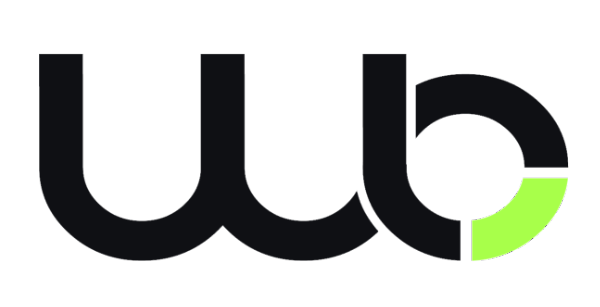
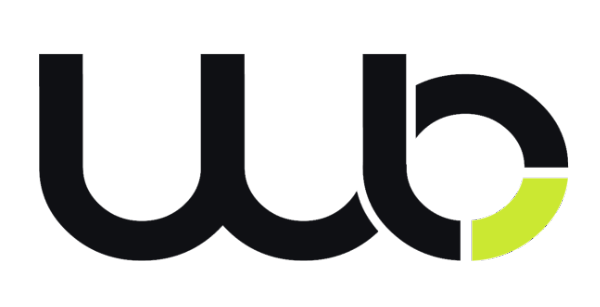
v4.1: correct the brand green to hue 70, admit red as a product colour
Sampling the real photographs while building the THREE page showed v4.0 had
taken the accent from the wrong product. The logo olive is hue 66 and the ONE,
TWO and THREE all photograph at hue 72-73; only the EON sits at 89, and that
is where #A8FF4A came from.

- brand lime is now #CBE832, hue 70 - four degrees from the mark, four from
  the hardware, 13.7:1 against ink in both directions
- monogram recut in it, positive and negative
- product colours added as their own tokens (--hw-lime #8CAC1C, --hw-red
  #E03828, charcoal, white): swatches and hardware only, never the interface
- red is admitted to the system as a product colour; the interface still has
  none, so a button is lime and an error is a lime rule and a sentence
- colourway swatches in Buy.jsx now use the measured hardware hexes
- the product is the Wishbone THREE; CubeFold is the folding mechanism only
- brand kit, colour and marks guidelines, brand book and both page generators
  rebuilt on the new accent

Changed region(s): [[0.78, 0.557, 0.96, 0.8502]]

diff --git a/design-system/guidelines/colour.html b/design-system/guidelines/colour.html
@@ -7,11 +7,18 @@
  <div style="background:#0f1014;color:#fafafa;border-color:#0f1014"><span class="label">ink</span><span class="v">#0F1014</span></div>
  <div style="background:#6b7075;color:#fff;border-color:#6b7075"><span class="label">grey</span><span class="v">#6B7075</span></div>
  <div style="background:#e4e4e7"><span class="label">hairline</span><span class="v">#E4E4E7</span></div>
- <div style="background:#a8ff4a;border-color:#a8ff4a"><span class="label">lime</span><span class="v">#A8FF4A</span></div>
+ <div style="background:#cbe832;border-color:#cbe832"><span class="label">lime</span><span class="v">#CBE832</span></div>
 </div>
 <table><tr><th>pair</th><th>ratio</th><th>use</th></tr>
 <tr><td>ink on paper</td><td>18.6</td><td>all text</td></tr><tr><td>grey on paper</td><td>5.0</td><td>secondary text, labels</td></tr>
-<tr><td>ink on lime</td><td>15.5</td><td>text on the lime button and tag</td></tr><tr><td>lime on ink</td><td>15.5</td><td>the eyebrow and button on the dark band</td></tr>
-<tr><td><b>lime on paper</b></td><td><b>1.2</b></td><td><b>never as text</b> — on paper lime is a surface: the button, the tag, a 2px rule</td></tr></table>
-<p class="grey" style="font-size:14px;max-width:70ch">The store photographs every product on white, so the site is white. One dark band per page at most, for the thing with the most technology in it. Lime is the hardware's own green (hue 89°); it appears once per view as the purchase, and as small marks — the eyebrow rule, the active slide, the selected tag. There is no red: an error is a lime line and a sentence.</p></div>
+<tr><td>ink on lime</td><td>13.7</td><td>text on the lime button and tag</td></tr><tr><td>lime on ink</td><td>13.7</td><td>the eyebrow and button on the dark band</td></tr>
+<tr><td><b>lime on paper</b></td><td><b>1.4</b></td><td><b>never as text</b> — on paper lime is a surface: the button, the tag, a 2px rule</td></tr></table>
+<h3 style="font-size:12px;font-weight:500;letter-spacing:.16em;text-transform:uppercase;color:var(--grey);margin:28px 0 10px">Product colours — swatches and hardware only</h3>
+<div class="sw" style="grid-template-columns:repeat(4,1fr)">
+ <div style="background:#8cac1c;border-color:#8cac1c"><span class="label">hardware lime</span><span class="v">#8CAC1C</span></div>
+ <div style="background:#e03828;border-color:#e03828;color:#fff"><span class="label">red</span><span class="v">#E03828</span></div>
+ <div style="background:#2b2b2e;border-color:#2b2b2e;color:#fff"><span class="label">charcoal</span><span class="v">#2B2B2E</span></div>
+ <div style="background:#e9e9e9"><span class="label">white</span><span class="v">#E9E9E9</span></div></div>
+<p class="grey" style="font-size:14px;max-width:70ch;margin-top:10px">Sampled from the real photographs. These are what a colourway swatch is painted with and what the hardware is. <b>None of them is ever an interface colour</b> — no red button, no red error, no olive text.</p>
+<p class="grey" style="font-size:14px;max-width:70ch">The store photographs every product on white, so the site is white. One dark band per page at most, for the thing with the most technology in it. Lime is hue 70° — four degrees from the logo olive and four from the lime on the trolleys, so the mark and the interface are finally the same green. It appears once per view as the purchase, and as small marks: the eyebrow rule, the active slide, the selected tag. The interface has no red; an error is a lime line and a sentence.</p></div>
 </body></html>

diff --git a/design-system/tokens/colors.css b/design-system/tokens/colors.css
@@ -8,8 +8,15 @@
   --grey-ink:#9a9ea6;         /* secondary text on ink (6.5:1) */
   --hair:#e4e4e7;             /* the hairline on paper */
   --hair-ink:rgb(255 255 255 / .14);  /* the hairline on ink */
-  --lime:#a8ff4a;             /* the accent — the hardware's green, hue 89° */
+  --lime:#cbe832;             /* THE accent — hue 70°, between the logo olive and the hardware lime */
   --on-lime:#0f1014;          /* the only text colour that goes on lime */
   --dot:#0f1014;              /* silhouette dots on paper */
   --dot-ink:#fafafa;          /* silhouette dots on the dark band */
+
+  /* product colours — sampled from the photographs. Swatches and hardware only.
+     These never appear in the interface: a button is --lime, an error is --lime. */
+  --hw-lime:#8cac1c;          /* the trolleys' lime, hue 73° */
+  --hw-red:#e03828;           /* the White / Red colourway and the CUBE mark, hue 4° */
+  --hw-charcoal:#2b2b2e;
+  --hw-white:#e9e9e9;
 }

diff --git a/design-system/components/sections/Buy.jsx b/design-system/components/sections/Buy.jsx
@@ -7,7 +7,7 @@ import { Photo } from '../primitives/Silhouette.jsx';
 
 // The product page opener: gallery on mist left, the buy column right. Colourways are the
 // store's real option values, drawn as split squares; the lime button is the purchase.
-const SW = { 'charcoal-black': ['#2b2b2e', '#0f1014'], 'charcoal-lime': ['#2b2b2e', '#a8ff4a'], 'charcoal-red': ['#2b2b2e', '#b3342a'], 'charcoal-blue': ['#2b2b2e', '#2f5aa8'], 'white-red': ['#e9e9e9', '#b3342a'] };
+const SW = { 'charcoal-black': ['#2b2b2e', '#0f1014'], 'charcoal-lime': ['#2b2b2e', '#8cac1c'], 'charcoal-red': ['#2b2b2e', '#b3342a'], 'charcoal-blue': ['#2b2b2e', '#2f5aa8'], 'white-red': ['#e9e9e9', '#b3342a'] };
 export function Buy({ model = 'EON', type = 'electric', price, colourways = [], images = [], copy, delivery = '2–4 days · AT DE UK', parts, soldOut = false, facts = [] }) {
   const [cw, setCw] = useState(colourways[0]);
   const [img, setImg] = useState(0);

diff --git a/design-system/components/primitives/Dots.jsx b/design-system/components/primitives/Dots.jsx
@@ -9,7 +9,7 @@ export function Dots({ grid, cols, rows, hot = [], size, gap, tone = 'ink', styl
     const css = getComputedStyle(document.documentElement);
     const S = size || parseFloat(css.getPropertyValue('--dot-size')) || 5;
     const G = gap != null ? gap : (parseFloat(css.getPropertyValue('--dot-gap')) || 2);
-    const lime = css.getPropertyValue('--lime').trim() || '#a8ff4a';
+    const lime = css.getPropertyValue('--lime').trim() || '#cbe832';
     const rgb = tone === 'paper' ? '250,250,250' : '15,16,20';
     const step = S + G, w = cols * step - G, h = rows * step - G, dpr = window.devicePixelRatio || 1;
     c.width = w * dpr; c.height = h * dpr; c.style.width = w + 'px'; c.style.height = h + 'px';

diff --git a/design-system/guidelines/marks.html b/design-system/guidelines/marks.html
@@ -10,6 +10,6 @@
 <tr><td>on paper</td><td>ink wordmark (header, 14px tall) · ink monogram with the lime quarter-circle (footer, 96px)</td></tr>
 <tr><td>on ink</td><td>the negative wordmark · the lime monogram</td></tr>
 <tr><td>clear space</td><td>the height of the W on every side</td></tr>
-<tr><td>the green in the mark</td><td>lime #A8FF4A — the same green as the hardware and the button; the olive of the original file is retired</td></tr>
+<tr><td>the green in the mark</td><td>lime #CBE832 — the same green as the hardware and the button; the olive of the original file is retired</td></tr>
 <tr><td>open</td><td>SVG masters and ™/® status still to commission</td></tr></table></div>
 </body></html>

diff --git a/design-system/uploads/tokens.css b/design-system/uploads/tokens.css
@@ -8,7 +8,7 @@
   --grey-ink:#9a9ea6;         /* secondary text on ink (6.5:1) */
   --hair:#e4e4e7;             /* the hairline on paper */
   --hair-ink:rgb(255 255 255 / .14);  /* the hairline on ink */
-  --lime:#a8ff4a;             /* the accent — the hardware's green, hue 89° */
+  --lime:#cbe832;             /* the accent — the hardware's green, hue 89° */
   --on-lime:#0f1014;          /* the only text colour that goes on lime */
   --dot:#0f1014;              /* silhouette dots on paper */
   --dot-ink:#fafafa;          /* silhouette dots on the dark band */

diff --git a/docs/brand/tokens.css b/docs/brand/tokens.css
@@ -9,7 +9,7 @@
   --grey-ink:#9a9ea6;         /* secondary text on ink (6.5:1) */
   --hair:#e4e4e7;             /* the hairline on paper */
   --hair-ink:rgb(255 255 255 / .14);  /* the hairline on ink */
-  --lime:#a8ff4a;             /* the accent — the hardware's green, hue 89° */
+  --lime:#cbe832;             /* the accent — the hardware's green, hue 89° */
   --on-lime:#0f1014;          /* the only text colour that goes on lime */
   --dot:#0f1014;              /* silhouette dots on paper */
   --dot-ink:#fafafa;          /* silhouette dots on the dark band */

diff --git a/design-system/tools/build-three-page.py b/design-system/tools/build-three-page.py
@@ -1,5 +1,5 @@
 #!/usr/bin/env python3
-"""Wishbone CUBE three — one complete product landing page, built on the v4 "Studio" system
+"""Wishbone THREE — one complete product landing page, built on the v4 "Studio" system
 and the real Product Bay record (id 9054916). Regenerate after any token or data change."""
 import base64, json, pathlib, re
 
@@ -45,7 +45,7 @@ HOTSPOTS = [
 ]
 
 SPECS = [
- ('Model','Wishbone CUBE three'),('Type','Manual push trolley, three wheels'),
+ ('Model','Wishbone THREE'),('Type','Manual push trolley, three wheels'),
  ('Frame','Aluminium, dual-tube'),('Folding mechanism','CubeFold'),
  ('Folded dimensions','37.5 × 57 × 46 cm'),('Net weight','7.65 kg'),
  ('Locks when folded and unfolded','Yes'),('Front wheel','24 cm, folds with the frame'),
@@ -61,8 +61,8 @@ SPECS = [
 COMPARE = {
  'models':[
   {'id':'ONE','name':'ONE','price':'229,00 €','img':IMG['one']},
-  {'id':'TWO','name':'CUBE two','price':'199,00 €','img':IMG['two']},
-  {'id':'THREE','name':'CUBE three','price':'249,00 €','img':IMG['bl']},
+  {'id':'TWO','name':'TWO','price':'199,00 €','img':IMG['two']},
+  {'id':'THREE','name':'THREE','price':'249,00 €','img':IMG['bl']},
  ],
  'rows':[
   ('Frame',{'ONE':'Aluminium','TWO':'Aluminium, single tube','THREE':'Aluminium, dual tube'}),
@@ -90,16 +90,16 @@ FAQ = [
  ('How small does it actually fold?','Into a cube of 37.5 × 57 × 46 cm, and it locks there — it will not spring open when you lift it. Pull the two rear wheels off and it loses another hand’s width each side.'),
  ('Will it take my bag?','Both brackets adjust and strap, so a stand bag and a cart bag both sit properly. The lower cradle carries the weight; the upper bracket only steadies it.'),
  ('Does the front wheel swivel?','No. It is fixed and tracks straight, which is what keeps the trolley going where you point it across a slope. It folds in with the frame rather than coming off.'),
- ('What is the difference between the two and the three?','The three has the dual-tube frame, a scorecard and pencil holder, and locks in both the folded and unfolded position. It is 750 g heavier and 50 € more.'),
+ ('What is the difference between the TWO and the THREE?','The THREE has the dual-tube frame, a scorecard and pencil holder, and locks in both the folded and unfolded position. It is 750 g heavier and 50 € more.'),
  ('Can I get spare parts?','Yes. Wishbone lists parts by model, and the wheels, brackets and holders are all replaceable rather than moulded in.'),
 ]
 
 NOTES = [
  ('Higgsfield was not reachable in this session','The MCP connector is not attached to this run, so no image was generated. Everything visual on this page is either a real Wishbone photograph or a diagram drawn from the measured numbers. The shot list below is ready to fire the moment the connector is live.'),
- ('The product has a sub-brand the website does not use','The manual and the frame both say <b>CUBE three</b>. Shopify calls it <em>Wishbone THREE</em>. This page uses CUBE three; if that is wrong, it is a one-line change.'),
+ ('Decided: the product is the Wishbone THREE','The manual and the frame carry a <b>CUBE</b> sub-brand that the website has never used. The owner\u2019s ruling on 20 September: the product is the <b>Wishbone THREE</b>, and <b>CubeFold</b> stays as the name of the folding mechanism only. This page follows that.'),
  ('The specs that were "not yet measured" exist','Weight 7.65 kg and 37.5 × 57 × 46 cm are in Product Bay and have never reached the storefront. The brand book still says these are unknown — that entry can now be closed.'),
- ('The lime is not the brand lime','Sampled from the photograph, the three’s lime is hue 72° (about #8CAC1C) — the same yellow-green family as the logo. The v4 brand accent is #A8FF4A, hue 89°, sampled from the EON. Two different greens are in play across the range and one of them should move.'),
- ('There is red in the brand','The White / Red colourway and the CUBE logo both use #E03828. The v4 system says there is no red. That needs a ruling.'),
+ ('The lime is not the brand lime','Sampled from the photograph, the THREE’s lime is hue 72° (about #8CAC1C) — the same yellow-green family as the logo. The v4 brand accent is #CBE832, hue 89°, sampled from the EON. Two different greens are in play across the range and one of them should move.'),
+ ('Decided: red is a product colour only','#E03828 is real \u2014 it is on the CUBE mark and on a whole colourway. It now lives in the system as a <b>product colour</b>: swatches and hardware only. The interface keeps no red at all; a button is lime and an error is a lime rule and a sentence.'),
  ('Six course photographs are sitting unused','014A2245 through 014A2310 are in Product Bay and on no page of the website. They are the best assets the brand owns.'),
  ('A product tour video exists','<em>Wishbone Three Product Tour.mp4</em>, 211 MB, in Product Bay. It belongs on this page; it needs hosting and a poster frame.'),
  ('Packing size and gross weight are zero','Both are filled in as 0 in Product Bay, which is not a measurement. The spec table prints an em dash instead.'),
@@ -139,7 +139,7 @@ header.site nav a:hover::after{right:0}
   letter-spacing:var(--track-label);text-transform:uppercase;line-height:1;
   transition:background var(--t-fast) var(--ease),color var(--t-fast) var(--ease),border-color var(--t-fast) var(--ease)}
 .btn--lime{background:var(--lime);color:var(--on-lime);border-color:var(--lime)}
-.btn--lime:hover{background:#97ef33}
+.btn--lime:hover{background:#bedd1e}
 .btn--ink{background:var(--ink);color:#fafafa;border-color:var(--ink)}
 .btn--out{background:transparent;color:inherit;border-color:currentColor}
 .btn--out:hover{background:var(--ink);color:#fafafa;border-color:var(--ink)}
@@ -218,7 +218,7 @@ table.cmp{width:100%;border-collapse:collapse;font-size:14px}
 table.cmp th,table.cmp td{text-align:left;padding:14px 14px 14px 0;border-bottom:1px solid var(--hair);vertical-align:middle}
 table.cmp thead th{border-bottom:1px solid var(--ink);vertical-align:bottom;font-weight:400}
 table.cmp thead img{width:100%;max-width:150px;background:var(--mist);margin-bottom:12px}
-table.cmp .hi{background:rgb(168 255 74 / .10)}
+table.cmp .hi{background:rgb(203 232 50 / .10)}
 table.cmp td.na{color:var(--grey)}
 
 /* accessories */
@@ -286,15 +286,15 @@ def fold_svg():
     bx, by = ox+w+dx+64, oy
     return f"""<svg viewBox="0 0 760 300" role="img" aria-label="The folded trolley, 37.5 by 57 by 46 centimetres, drawn to scale beside a 55 by 40 centimetre cabin bag">
   <g fill="none" stroke="#fafafa" stroke-width="1.6" stroke-linejoin="round">
-    <polygon points="{front}" fill="rgb(168 255 74 / .10)"/>
+    <polygon points="{front}" fill="rgb(203 232 50 / .10)"/>
     <polygon points="{top}"/><polygon points="{side}"/>
   </g>
-  <g stroke="#a8ff4a" stroke-width="1.4">
+  <g stroke="#cbe832" stroke-width="1.4">
     <line x1="{ox}" y1="{oy+18}" x2="{ox+w}" y2="{oy+18}"/>
     <line x1="{ox-18}" y1="{oy}" x2="{ox-18}" y2="{oy-h}"/>
     <line x1="{ox+w+6}" y1="{oy+12}" x2="{ox+w+dx+6}" y2="{oy+dy+12}"/>
   </g>
-  <g fill="#a8ff4a" font-family="'Manrope',sans-serif" font-size="12" font-weight="500" letter-spacing="1.4">
+  <g fill="#cbe832" font-family="'Manrope',sans-serif" font-size="12" font-weight="500" letter-spacing="1.4">
     <text x="{ox+w/2:.0f}" y="{oy+36:.0f}" text-anchor="middle">57 CM</text>
     <text x="{ox-26:.0f}" y="{oy-h/2:.0f}" text-anchor="end" dominant-baseline="middle">46 CM</text>
     <text x="{ox+w+dx/2+22:.0f}" y="{oy+dy+30:.0f}">37.5 CM</text>
@@ -317,7 +317,7 @@ def build():
         f'<button data-cw="{c["id"]}" aria-label="{c["name"]}" aria-pressed="{"true" if i==0 else "false"}" '
         f'style="background:linear-gradient(135deg,{c["a"]} 0 50%,{c["b"]} 50% 100%)"></button>' for i, c in enumerate(COLOURWAYS))
     cw_slots = "".join(f'<div class="slot{" on" if i==0 else ""}" data-cw="{c["id"]}">'
-                       f'<img src="{c["img"]}" alt="Wishbone CUBE three in {c["name"]}" '
+                       f'<img src="{c["img"]}" alt="Wishbone THREE in {c["name"]}" '
                        f'{"" if i==0 else "loading=lazy"}></div>' for i, c in enumerate(COLOURWAYS))
     idx = "".join(f'<li data-cw="{c["id"]}" class="{"on" if i==0 else ""}">{str(i+1).zfill(2)}</li>'
                   for i, c in enumerate(COLOURWAYS))
@@ -334,7 +334,7 @@ def build():
                                     ('4','','Quick Lok bases'),('3','','colourways'),('249','€','RRP')])
 
     cws = "".join(f'''<figure>
-      <img src="{c['img']}" alt="Wishbone CUBE three in {c['name']}" loading="lazy">
+      <img src="{c['img']}" alt="Wishbone THREE in {c['name']}" loading="lazy">
       <figcaption style="margin-top:18px">
         <div class="label"><span class="chip" style="background:linear-gradient(135deg,{c['a']} 0 50%,{c['b']} 50% 100%)"></span>{c['name']}</div>
         <div class="grey" style="font-size:13px;margin-top:10px;font-variant-numeric:tabular-nums">SKU {c['sku']}<br>EAN {c['ean']}</div>
@@ -367,8 +367,8 @@ def build():
 # ---------------------------------------------------------------- the page
 HTML = """<!doctype html><html lang="en"><head><meta charset="utf-8">
 <meta name="viewport" content="width=device-width,initial-scale=1">
-<title>Wishbone CUBE three — push trolley</title>
-<meta name="description" content="The Wishbone CUBE three folds to 37.5 × 57 × 46 cm and locks there. Dual-tube aluminium frame, 7.65 kg, four Quick Lok bases, Smart Organizer. 249 €.">
+<title>Wishbone THREE — push trolley</title>
+<meta name="description" content="The Wishbone THREE folds to 37.5 × 57 × 46 cm and locks there. Dual-tube aluminium frame, 7.65 kg, four Quick Lok bases, Smart Organizer. 249 €.">
 <link rel="preconnect" href="https://fonts.googleapis.com"><link rel="preconnect" href="https://fonts.gstatic.com" crossorigin>
 <link href="https://fonts.googleapis.com/css2?family=Manrope:wght@300;400;500;600&family=DotGothic16&display=swap" rel="stylesheet">
 <style>__TOKENS__ __CSS__</style></head><body>
@@ -377,7 +377,7 @@ HTML = """<!doctype html><html lang="en"><head><meta charset="utf-8">
   <a href="/" aria-label="Wishbone Golf"><img src="__WORD__" alt="Wishbone Golf" style="height:13px;width:auto"></a>
   <nav class="label"><a href="#features">Trolleys</a><a href="#parts">Spare parts</a><a href="#accessories">Accessories</a><a href="#compare">Compare</a><a href="#faq">Support</a></nav>
   <a href="/cart" class="label">Cart (0)</a>
-  <a class="btn btn--lime btn--sm" href="#buy">Buy the three <span aria-hidden="true">→</span></a>
+  <a class="btn btn--lime btn--sm" href="#buy">Buy the THREE <span aria-hidden="true">→</span></a>
 </div></header>
 
 <!-- 01 hero -->
@@ -385,7 +385,7 @@ HTML = """<!doctype html><html lang="en"><head><meta charset="utf-8">
   <div class="copy">
     __EYE_HERO__
     <h1 class="display display--hero"><span style="display:block">Three wheels.</span><span style="display:block">One cube.</span><span style="display:block">7.65 kg.</span></h1>
-    <p class="lead grey" style="max-width:38ch">The CUBE three folds into 37.5 × 57 × 46 cm and locks there. A dual-tube aluminium frame, four Quick Lok bases and a Smart Organizer where your hands already are.</p>
+    <p class="lead grey" style="max-width:38ch">The THREE folds into 37.5 × 57 × 46 cm and locks there. A dual-tube aluminium frame, four Quick Lok bases and a Smart Organizer where your hands already are.</p>
     <div style="display:flex;align-items:baseline;gap:16px"><span class="price">249,00 €</span><span class="label grey">incl. VAT · 2–4 days</span></div>
     <div><div class="label grey" style="margin-bottom:10px">Colourway <span id="cwname" style="color:var(--ink)">Black / Lime</span></div>
       <div class="sw" id="sw">__CW_BUTTONS__</div></div>
@@ -406,7 +406,7 @@ HTML = """<!doctype html><html lang="en"><head><meta charset="utf-8">
   __D_FEAT__
   <p class="grey" style="max-width:46ch;margin-top:16px">Eight things worth knowing, in the order you meet them. Pick a number.</p>
   <div class="map">
-    <div class="plate"><img src="__HERO_BL__" alt="Wishbone CUBE three, feature map">__SPOTS__</div>
+    <div class="plate"><img src="__HERO_BL__" alt="Wishbone THREE, feature map">__SPOTS__</div>
     <div>
       <div class="det" id="det">
         <img id="detimg" src="" alt="">
@@ -471,11 +471,11 @@ HTML = """<!doctype html><html lang="en"><head><meta charset="utf-8">
   __EYE_COURSE__
   <h2 class="display" style="margin:18px 0 32px"><span style="display:block">On the course,</span><span style="display:block">where it is judged.</span></h2>
   <div class="gal">
-    <figure class="w8 h1"><img src="__L2__" alt="The CUBE three on the fairway"></figure>
-    <figure class="w4 h1"><img src="__L1__" alt="The CUBE three, three-quarter view on grass"></figure>
-    <figure class="w6 h2"><img src="__L3__" alt="The CUBE three loaded with a cart bag"></figure>
+    <figure class="w8 h1"><img src="__L2__" alt="The Wishbone THREE on the fairway"></figure>
+    <figure class="w4 h1"><img src="__L1__" alt="The Wishbone THREE, three-quarter view on grass"></figure>
+    <figure class="w6 h2"><img src="__L3__" alt="The Wishbone THREE loaded with a cart bag"></figure>
     <figure class="w6 h2"><img src="__L6__" alt="A golfer taking a club from the bag"></figure>
-    <figure class="w12 h3"><img src="__L4__" alt="A golfer pushing the CUBE three along the fairway"></figure>
+    <figure class="w12 h3"><img src="__L4__" alt="A golfer pushing the Wishbone THREE along the fairway"></figure>
   </div>
 </div></section>
 
@@ -523,9 +523,9 @@ HTML = """<!doctype html><html lang="en"><head><meta charset="utf-8">
     <div style="grid-column:span 4"><img src="__MONO__" alt="Wishbone" style="width:92px">
       <p class="grey" style="font-size:13px;margin-top:16px;max-width:28ch">Birthed in Britain. Ultra-light aluminium golf trolleys and every part to keep them rolling.</p></div>
     <div style="grid-column:span 2"><div class="label" style="margin-bottom:14px">Trolleys</div>
-      <ul class="grey" style="list-style:none;padding:0;display:grid;gap:8px;font-size:13px"><li>Wishbone ONE</li><li>CUBE two</li><li>CUBE three</li><li>NEO</li><li>EON</li></ul></div>
+      <ul class="grey" style="list-style:none;padding:0;display:grid;gap:8px;font-size:13px"><li>Wishbone ONE</li><li>Wishbone TWO</li><li>Wishbone THREE</li><li>NEO</li><li>EON</li></ul></div>
     <div style="grid-column:span 2"><div class="label" style="margin-bottom:14px">Spare parts</div>
-      <ul class="grey" style="list-style:none;padding:0;display:grid;gap:8px;font-size:13px"><li>Parts for the three</li><li>Wheels</li><li>Brackets</li><li>Brake kit</li></ul></div>
+      <ul class="grey" style="list-style:none;padding:0;display:grid;gap:8px;font-size:13px"><li>Parts for the THREE</li><li>Wheels</li><li>Brackets</li><li>Brake kit</li></ul></div>
     <div style="grid-column:span 2"><div class="label" style="margin-bottom:14px">Accessories</div>
       <ul class="grey" style="list-style:none;padding:0;display:grid;gap:8px;font-size:13px"><li>Umbrella holder</li><li>Drink holder</li><li>Scorecard holder</li><li>Carry bag set</li></ul></div>
     <div style="grid-column:span 2"><div class="label" style="margin-bottom:14px">Company</div>
@@ -538,7 +538,7 @@ HTML = """<!doctype html><html lang="en"><head><meta charset="utf-8">
 
 <div class="buybar"><div class="wrap in">
   <img src="__HERO_BL__" alt="" style="width:44px;height:44px;object-fit:contain">
-  <div><div class="label">Wishbone CUBE three</div><div class="grey" style="font-size:13px" id="barcw">Black / Lime · 7.65 kg</div></div>
+  <div><div class="label">Wishbone THREE</div><div class="grey" style="font-size:13px" id="barcw">Black / Lime · 7.65 kg</div></div>
   <div style="margin-left:auto;display:flex;align-items:center;gap:18px">
     <span class="price" style="font-size:20px">249,00 €</span>
     <a class="btn btn--lime" href="#">Add to cart <span aria-hidden="true">→</span></a></div>
@@ -590,7 +590,7 @@ def main():
     out = (HTML
       .replace('__TOKENS__', tokens).replace('__CSS__', CSS)
       .replace('__WORD__', WORD).replace('__MONO__', MONO)
-      .replace('__EYE_HERO__', eyebrow('01','Wishbone CUBE three'))
+      .replace('__EYE_HERO__', eyebrow('01','Wishbone THREE'))
       .replace('__EYE_FEAT__', eyebrow('02','Every feature'))
       .replace('__D_FEAT__', display(['Eight reasons it is','fifty euros more.']))
       .replace('__EYE_FOLD__', eyebrow('03','CubeFold'))

diff --git a/design-system/tools/build-brandbook.py b/design-system/tools/build-brandbook.py
@@ -30,7 +30,7 @@ B.append(ch('02','direction','The direction',
  'v4 is white because the product is photographed on white. Everything else follows from that.',
  two(box('the reference', '<p style="margin-top:10px">A white, airy page: light geometric sans in upper-case statements, a stats strip under the hero, three-up product tiles on grey, one dark technology band, hairline forms, and a lime button used exactly once. The dot-matrix voice is kept, but only as an accent.</p>'),
      box('the product', '<p style="margin-top:10px">Every one of the store\'s photographs is a white studio shot. On a dark site each one arrives in a white box; on paper and mist they sit where they are put. Fifteen parts have no photograph at all — the dot silhouette stands in for them and for nothing else.</p>'))
- + '<h3>2.1 what v4 keeps from before</h3>' + table([['the green','lime #A8FF4A, the hardware\'s hue-89° green, settled in v3 and kept'],['the honesty','unknown prints — with <i>not yet measured</i>; nothing is guessed'],['the catalogue','every component is built on the real products, prices and part names'],['the dot voice','one role: the numbered eyebrow above each headline; silhouettes where a photo is missing']], ['kept','how'])
+ + '<h3>2.1 what v4 keeps from before</h3>' + table([['the green','the idea that the accent is the product\'s own green — but v4.1 corrects <i>which</i> product: the logo is hue 66° and the ONE, TWO and THREE photograph at 72–73°, so the accent is now <b>#CBE832 at hue 70°</b>, not the EON\'s 89°'],['the honesty','unknown prints — with <i>not yet measured</i>; nothing is guessed'],['the catalogue','every component is built on the real products, prices and part names'],['the dot voice','one role: the numbered eyebrow above each headline; silhouettes where a photo is missing']], ['kept','how'])
  + '<h3>2.2 what it drops</h3>' + table([['the dark ground and the lamp','the site is paper and mist; ink appears once per page'],['dot type for everything','Manrope for everything; DotGothic16 for the eyebrow only'],['dot charts, gauges, rings, waves','none — a number is written as a number'],['the tile and the pill','bands and hairlines; radius 0']], ['dropped','replaced by'])))
 B.append(ch('03','marks','Marks',
  'The wordmark and the monogram, positive on paper, negative on ink. The green in the mark is the brand green.',

diff --git a/design-system/tools/build-v4.py b/design-system/tools/build-v4.py
@@ -85,7 +85,7 @@ footer.doc{border-top:1px solid var(--hair);margin-top:64px;padding-top:20px;pad
   <div style="border:1px solid var(--hair);padding:48px;display:flex;align-items:center;justify-content:center"><img src="__WORDINK__" style="width:78%"></div>
   <div style="border:1px solid var(--hair);padding:32px;display:flex;align-items:center;justify-content:center"><img src="__MONOINK__" style="width:60%"></div>
   <div style="background:var(--ink);padding:32px;display:flex;align-items:center;justify-content:center"><img src="__MONO__" style="width:60%"></div></div>
-<p class="grey" style="font-size:13px;margin-top:12px">positive marks cut for paper; the quarter-circle stays lime #A8FF4A on both. SVG masters still to commission.</p></div>
+<p class="grey" style="font-size:13px;margin-top:12px">positive marks cut for paper; the quarter-circle is recut in the v4.1 lime #CBE832 on both. SVG masters still to commission.</p></div>
 
 <div class="doc sec"><div class="eyebrow"><b>06</b>Still open</div>
 <table><tr><td>01</td><td>fold size and weight — unmeasured for every model; every table that needs them prints —</td></tr>

diff --git a/design-system/uploads/BRAND_KIT.md b/design-system/uploads/BRAND_KIT.md
@@ -1,6 +1,21 @@
 # Wishbone Golf — Brand Kit
 
-**Version 4.0 "Studio" — 19 September 2026.** Supersedes v3.0, v2.0 and v1.0 of the same day.
+**Version 4.1 "Studio" — 20 September 2026.** Supersedes v4.0 (19 September) and, through it, v3, v2 and v1.
+
+**What 4.1 changed, and why.** Building the Wishbone THREE product page meant sampling the real
+photographs. Two v4.0 assumptions turned out to be wrong.
+
+1. **The green.** v4.0 took the accent from the EON, at hue 89°. But the logo olive is hue 66° and
+   the ONE, TWO and THREE all photograph at hue 72–73° — the EON is the outlier, not the rule. The
+   brand lime is now **`#CBE832`, hue 70°**: four degrees from the mark, four from the hardware,
+   13.7:1 against ink in both directions. The monogram is recut in it.
+2. **Red.** v4.0 said the brand has no red. `#E03828` is on the CUBE mark and on a White / Red
+   colourway of every model. It is now in the system as a **product colour** — swatches and hardware
+   only. The *interface* still has no red: a button is lime, an error is a lime rule and a sentence.
+
+Naming: the manual brands the trolleys **CUBE two** and **CUBE three**. The owner’s ruling is that
+the products are the **Wishbone TWO** and **Wishbone THREE**, and **CubeFold** is the name of the
+folding mechanism only.
 
 The owner reviewed v3 and asked for a change of direction against a new reference — a white,
 product-led page with a light geometric sans, hairlines, one dark band and a lime button used
@@ -18,7 +33,7 @@ photograph; a white one lets them sit. v4 is white.
 | Ground | paper `#FFFFFF` alternating with mist `#F4F4F5`; ink `#0F1014` at most once per page |
 | Type | **Manrope** — 300 caps for headlines, 400 body, 500 labels, 600 for the price |
 | The dot accent | **DotGothic16 for the numbered eyebrow only**; dot silhouettes for parts without a photo |
-| Accent | **Lime `#A8FF4A`** — a surface on paper (one button per view, tag, 2px rule); text only on ink |
+| Accent | **Lime `#CBE832`** — a surface on paper (one button per view, tag, 2px rule); text only on ink |
 | Line | the hairline `#E4E4E7` |
 | Geometry | radius 0, no shadows; depth is a band change |
 | Layout | full-bleed bands on a 1200px / 12-column container, two-half bands split 5 : 7 |
@@ -32,9 +47,9 @@ photograph; a white one lets them sit. v4 is white.
 | ink | `#0F1014` | text; the one dark band |
 | grey | `#6B7075` | secondary text (5.0:1) |
 | hairline | `#E4E4E7` | tables, stats, fields, footer |
-| lime | `#A8FF4A` | the accent — hue 89°, the hardware's green (settled in v3) |
+| lime | `#CBE832` | the accent — hue 70°, between the logo olive (66°) and the hardware lime (73°) |
 
-Ink on paper 18.6:1 · ink on lime 15.5:1 · lime on ink 15.5:1 · **lime on paper 1.2:1 — never as
+Ink on paper 18.6:1 · ink on lime 13.7:1 · lime on ink 13.7:1 · **lime on paper 1.4:1 — never as
 text.** No red: an error is a 2px lime line under the field and a plain sentence.
 
 ## 2. Type
@@ -65,7 +80,12 @@ mist / ink), Trust, Inquiry, Buy, Specs, Compare, Parts, Faq. Chrome: Header, Fo
 
 ## 6. Open
 
-Fold size and weight unmeasured; photographs for fifteen parts and the NEO; SVG masters; ™ vs ®;
+Fold size and weight are **known** for the CUBE two (6.9 kg, 35.5 × 53 × 45 cm) and CUBE three
+(7.65 kg, 37.5 × 57 × 46 cm) — they are in Product Bay and have never reached the storefront; the ONE,
+NEO and EON are still unmeasured. Open: the two greens (the three's hardware lime is hue 72°, the EON's
+is hue 89°, the brand lime is 89°); red `#E03828` exists in the CUBE mark and the White / Red colourway;
+the CUBE sub-brand is on the product and not on the website; photographs for fifteen parts and the NEO;
+SVG masters; ™ vs ®;
 "aluminum" → "aluminium"; vendor "My Store"; the theme still runs v1.
 
 ---

diff --git a/docs/brand/BRAND_KIT.md b/docs/brand/BRAND_KIT.md
@@ -1,6 +1,21 @@
 # Wishbone Golf — Brand Kit
 
-**Version 4.0 "Studio" — 19 September 2026.** Supersedes v3.0, v2.0 and v1.0 of the same day.
+**Version 4.1 "Studio" — 20 September 2026.** Supersedes v4.0 (19 September) and, through it, v3, v2 and v1.
+
+**What 4.1 changed, and why.** Building the Wishbone THREE product page meant sampling the real
+photographs. Two v4.0 assumptions turned out to be wrong.
+
+1. **The green.** v4.0 took the accent from the EON, at hue 89°. But the logo olive is hue 66° and
+   the ONE, TWO and THREE all photograph at hue 72–73° — the EON is the outlier, not the rule. The
+   brand lime is now **`#CBE832`, hue 70°**: four degrees from the mark, four from the hardware,
+   13.7:1 against ink in both directions. The monogram is recut in it.
+2. **Red.** v4.0 said the brand has no red. `#E03828` is on the CUBE mark and on a White / Red
+   colourway of every model. It is now in the system as a **product colour** — swatches and hardware
+   only. The *interface* still has no red: a button is lime, an error is a lime rule and a sentence.
+
+Naming: the manual brands the trolleys **CUBE two** and **CUBE three**. The owner’s ruling is that
+the products are the **Wishbone TWO** and **Wishbone THREE**, and **CubeFold** is the name of the
+folding mechanism only.
 
 The owner reviewed v3 and asked for a change of direction against a new reference — a white,
 product-led page with a light geometric sans, hairlines, one dark band and a lime button used
@@ -18,7 +33,7 @@ photograph; a white one lets them sit. v4 is white.
 | Ground | paper `#FFFFFF` alternating with mist `#F4F4F5`; ink `#0F1014` at most once per page |
 | Type | **Manrope** — 300 caps for headlines, 400 body, 500 labels, 600 for the price |
 | The dot accent | **DotGothic16 for the numbered eyebrow only**; dot silhouettes for parts without a photo |
-| Accent | **Lime `#A8FF4A`** — a surface on paper (one button per view, tag, 2px rule); text only on ink |
+| Accent | **Lime `#CBE832`** — a surface on paper (one button per view, tag, 2px rule); text only on ink |
 | Line | the hairline `#E4E4E7` |
 | Geometry | radius 0, no shadows; depth is a band change |
 | Layout | full-bleed bands on a 1200px / 12-column container, two-half bands split 5 : 7 |
@@ -32,9 +47,9 @@ photograph; a white one lets them sit. v4 is white.
 | ink | `#0F1014` | text; the one dark band |
 | grey | `#6B7075` | secondary text (5.0:1) |
 | hairline | `#E4E4E7` | tables, stats, fields, footer |
-| lime | `#A8FF4A` | the accent — hue 89°, the hardware's green (settled in v3) |
+| lime | `#CBE832` | the accent — hue 70°, between the logo olive (66°) and the hardware lime (73°) |
 
-Ink on paper 18.6:1 · ink on lime 15.5:1 · lime on ink 15.5:1 · **lime on paper 1.2:1 — never as
+Ink on paper 18.6:1 · ink on lime 13.7:1 · lime on ink 13.7:1 · **lime on paper 1.4:1 — never as
 text.** No red: an error is a 2px lime line under the field and a plain sentence.
 
 ## 2. Type
